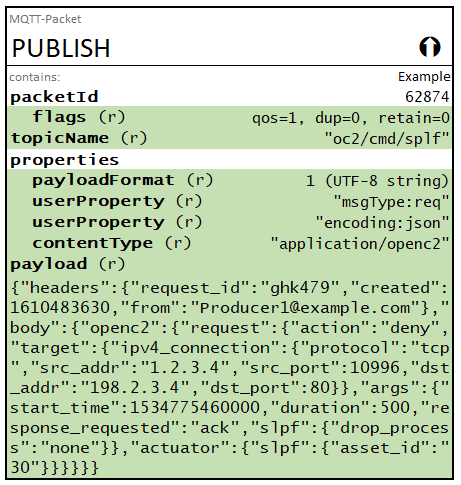
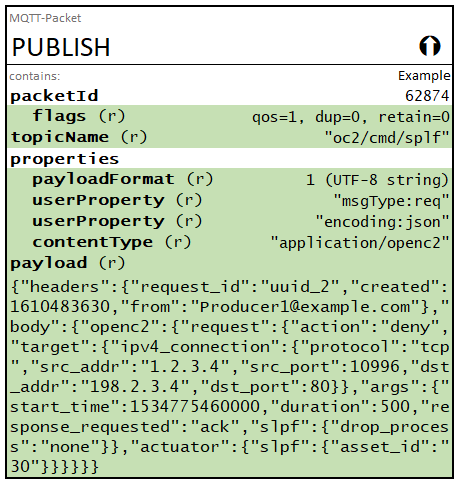
use "uuid_2" in example 4

Changed region(s): [[0.0, 0.0, 1.0, 0.9959], [0.5478, 0.2178, 0.6391, 0.2801], [0.5783, 0.4668, 0.6087, 0.4979]]

diff --git a/transf-mqtt-v1.0.md b/transf-mqtt-v1.0.md
@@ -1239,7 +1239,7 @@ packet payloads use condensed formatting (white space minimized).
 
 {
   "headers": {
-    "request_id": "ghk479",
+    "request_id": "uuid_2",
     "created": 1610483630,
     "from": "Producer1@example.com"
   },
@@ -1284,7 +1284,7 @@ The consumer response is as follows:
 ``` json
 {
   "headers": {
-    "request_id": "ghk479",
+    "request_id": "uuid_2",
     "created": 1610483633,
     "from": "Consumer1@example.com"
   },
